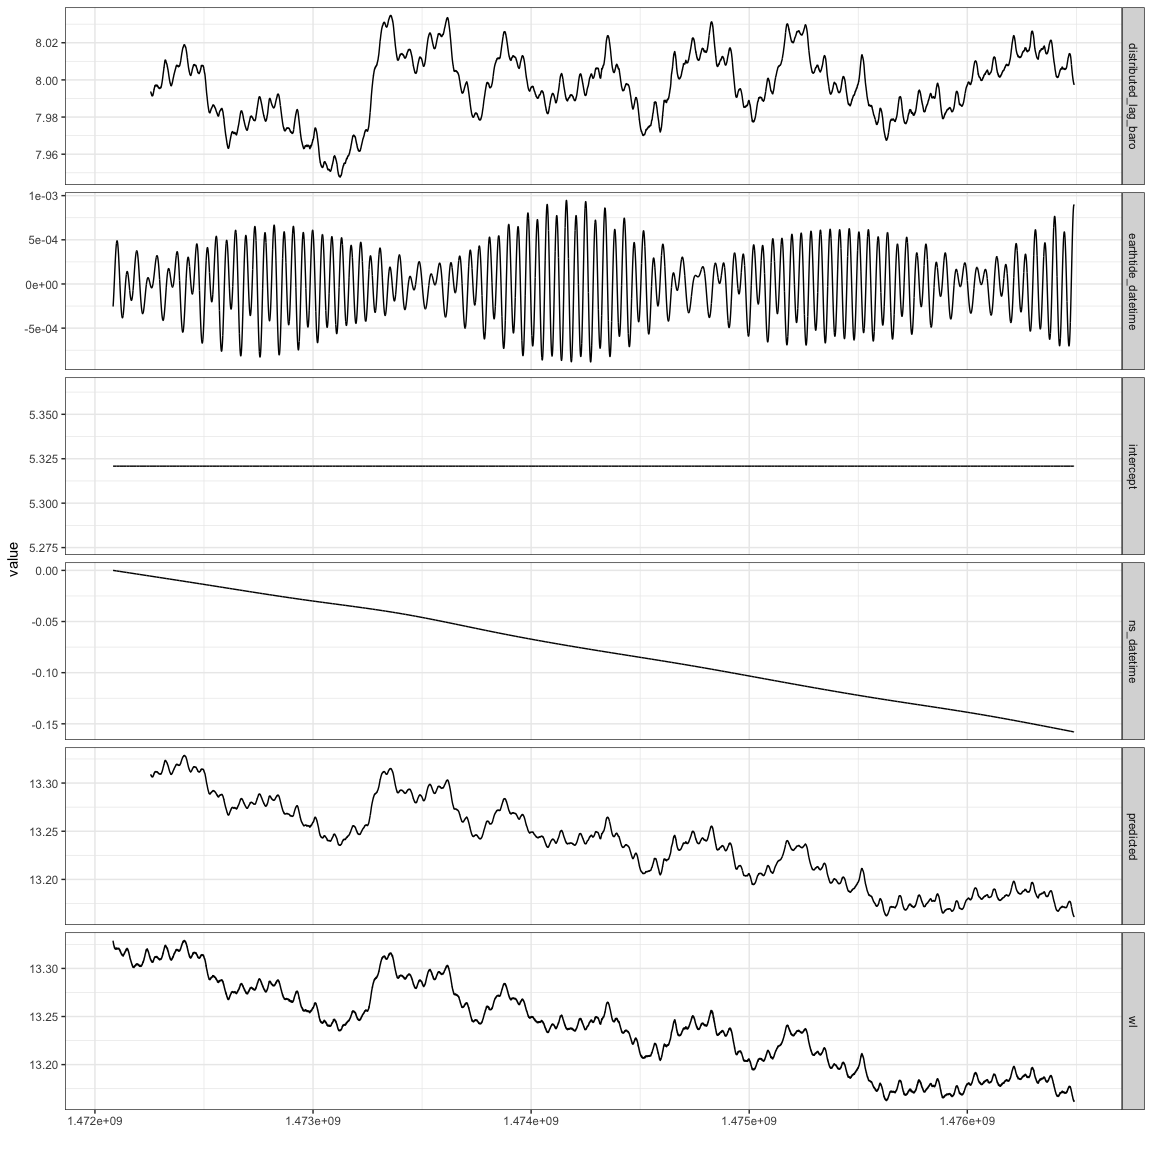
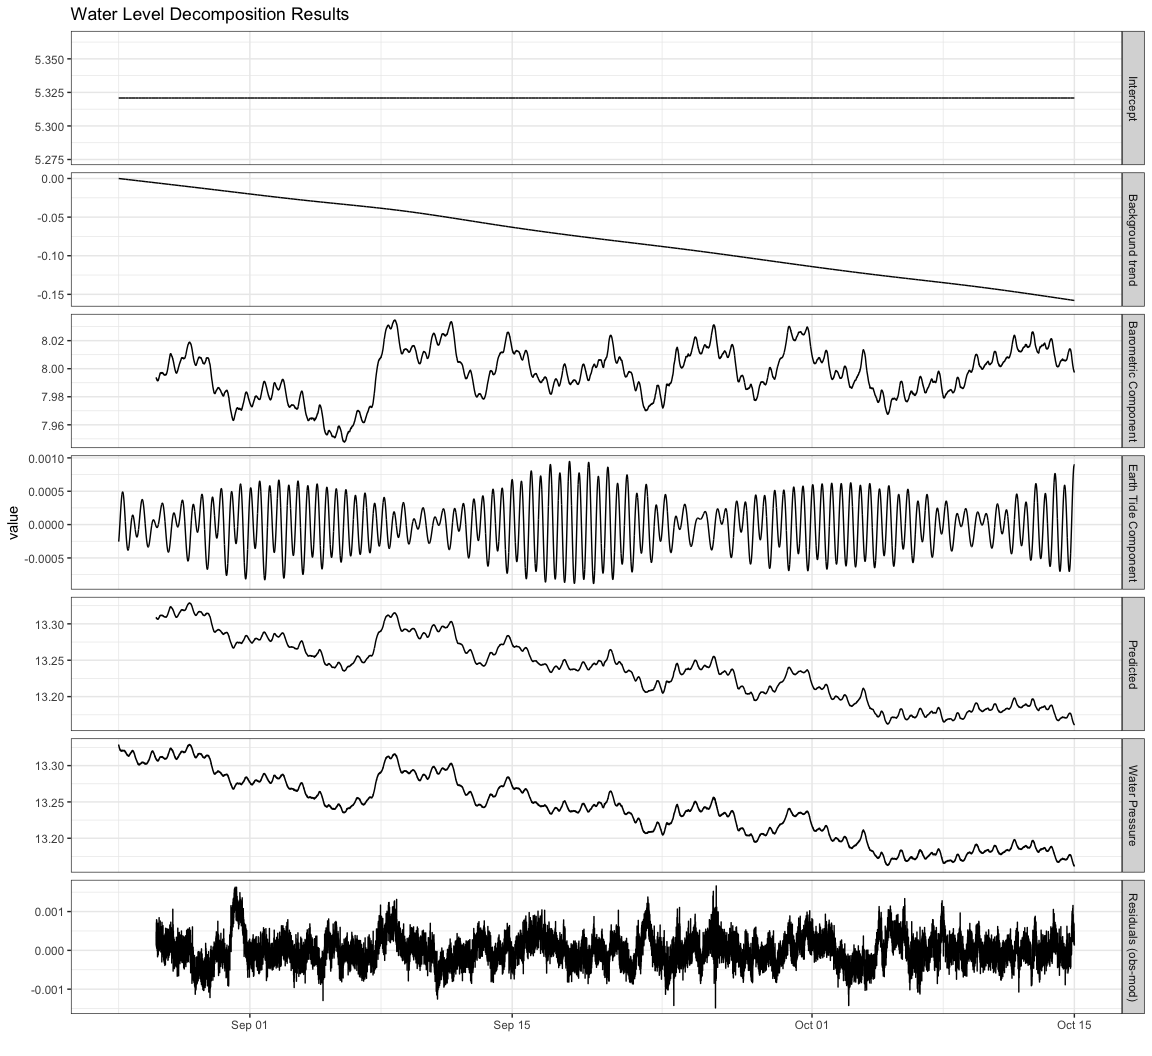
update documentation figures

diff --git a/README.md b/README.md
@@ -67,9 +67,9 @@ library(ggplot2)
 data(transducer)
 
 # convert to numeric because step_ns doesn't handle POSIXct
-transducer$datetime <- as.numeric(transducer$datetime)
+transducer$datetime_num <- as.numeric(transducer$datetime)
 
-unique(diff(transducer$datetime)) # times are regularly spaced
+unique(diff(transducer$datetime_num)) # times are regularly spaced
 #> [1] 120
 
 # Earth tide inputs
@@ -80,14 +80,14 @@ latitude    <- 34.0
 longitude   <- -118.5
 
 # create recipe 
-rec <- recipe(wl~baro+datetime, transducer) |>
+rec <- recipe(wl~baro+datetime_num, transducer) |>
   step_distributed_lag(baro, knots = log_lags(15, 86400 * 2 / 120)) |>
-  step_earthtide(datetime,
+  step_earthtide(datetime_num,
                  latitude = latitude,
                  longitude = longitude,
                  astro_update = 1,
                  wave_groups = wave_groups) |>
-  step_ns(datetime, deg_free = 10) |>
+  step_ns(datetime_num, deg_free = 10) |>
   prep()
 
 input <- rec |> bake(new_data = NULL)
@@ -145,16 +145,16 @@ summary(fit <- lm(wl~., input))
 #> earthtide_sin_11          -5.476e-05  5.819e-06    -9.410  < 2e-16 ***
 #> earthtide_cos_12           2.122e-06  2.531e-06     0.838  0.40194    
 #> earthtide_sin_12          -2.205e-06  2.536e-06    -0.870  0.38448    
-#> datetime_ns_01            -2.965e-02  2.892e-05 -1025.095  < 2e-16 ***
-#> datetime_ns_02            -4.064e-02  3.792e-05 -1071.627  < 2e-16 ***
-#> datetime_ns_03            -6.178e-02  3.313e-05 -1864.753  < 2e-16 ***
-#> datetime_ns_04            -7.808e-02  3.445e-05 -2266.602  < 2e-16 ***
-#> datetime_ns_05            -9.233e-02  3.316e-05 -2784.028  < 2e-16 ***
-#> datetime_ns_06            -1.100e-01  3.553e-05 -3095.275  < 2e-16 ***
-#> datetime_ns_07            -1.264e-01  3.354e-05 -3768.390  < 2e-16 ***
-#> datetime_ns_08            -1.355e-01  2.239e-05 -6053.491  < 2e-16 ***
-#> datetime_ns_09            -1.639e-01  7.195e-05 -2278.361  < 2e-16 ***
-#> datetime_ns_10            -1.499e-01  1.563e-05 -9587.262  < 2e-16 ***
+#> datetime_num_ns_01        -2.965e-02  2.892e-05 -1025.095  < 2e-16 ***
+#> datetime_num_ns_02        -4.064e-02  3.792e-05 -1071.627  < 2e-16 ***
+#> datetime_num_ns_03        -6.178e-02  3.313e-05 -1864.753  < 2e-16 ***
+#> datetime_num_ns_04        -7.808e-02  3.445e-05 -2266.602  < 2e-16 ***
+#> datetime_num_ns_05        -9.233e-02  3.316e-05 -2784.028  < 2e-16 ***
+#> datetime_num_ns_06        -1.100e-01  3.553e-05 -3095.275  < 2e-16 ***
+#> datetime_num_ns_07        -1.264e-01  3.354e-05 -3768.390  < 2e-16 ***
+#> datetime_num_ns_08        -1.355e-01  2.239e-05 -6053.491  < 2e-16 ***
+#> datetime_num_ns_09        -1.639e-01  7.195e-05 -2278.361  < 2e-16 ***
+#> datetime_num_ns_10        -1.499e-01  1.563e-05 -9587.262  < 2e-16 ***
 #> ---
 #> Signif. codes:  0 '***' 0.001 '**' 0.01 '*' 0.05 '.' 0.1 ' ' 1
 #> 
@@ -168,24 +168,39 @@ summary(fit <- lm(wl~., input))
 
 The decomposition consists of:
 
--   **distributed_lag_baro** The barometric component of the water
-    pressure (meters water)
--   **earthtide_datetime** The contribution of Earth tides (meters
-    water)
--   **intercept** A single offset value (meters_water)
--   **ns_datetime** The background trend (meters water)
--   **predicted** The sum of all the components above. This is the
-    predicted water pressure. (meters water)
+-   **Intercept** A single offset value (meters_water)
+-   **Background trend** The background trend determined using natural
+    splines (dbar)
+-   **Barometric Component** The barometric component of the water
+    pressure determined using distributed lag terms (dbar)
+-   **Earth tide Component** The Earth tides component determined using
+    harmonic analysis (dbar)
+-   **Predicted** The sum of all the components above. This is the
+    predicted water pressure. (dbar)
+-   **Water Pressure** The observed water pressure measured with a
+    non-vented transducer (dbar)
+-   **Residuals (obs-mod)** The difference between the observed water
+    pressure and the modeled pressure (Predicted). (dbar)
 
 ``` r
 pred <- predict_terms(fit = fit, 
                       rec = rec,
                       data = input)
 pred <- bind_cols(transducer[, c('datetime', 'wl')], pred)
+pred$residuals <- pred$wl - pred$predicted
 pred_long <- pivot_longer(pred, cols = !datetime)
-
+levels <-c('intercept', 'ns_datetime_num', 'distributed_lag_baro',
+           'earthtide_datetime_num', 'predicted', 'wl', 'residuals')
+labels <- c('Intercept', 'Background trend', 'Barometric Component',
+            'Earth Tide Component', 'Predicted', 'Water Pressure', 
+            'Residuals (obs-mod)')
+pred_long$name <- factor(pred_long$name, 
+                         levels = levels,
+                         labels = labels)
 ggplot(pred_long, aes(x = datetime, y = value)) +
   geom_line() + 
+  scale_y_continuous(labels = scales::comma) + 
+  ggtitle('Water Level Decomposition Results') + 
   xlab("") + 
   facet_grid(name~., scales = 'free_y') + 
   theme_bw()
@@ -229,7 +244,7 @@ ggplot(resp_et, aes(x = x, xend = x, y = 0, yend = value)) +
   geom_segment() + 
   ggtitle('B: Earthtide Response') +
   xlab('Frequency (cycles per day)') +
-  ylab('Phase (radians)   |   Amplitude (meters water)') +
+  ylab('Phase (radians)   |   Amplitude (dbar)') +
   facet_grid(name~., scales = 'free_y') + 
   theme_bw()
 ```
